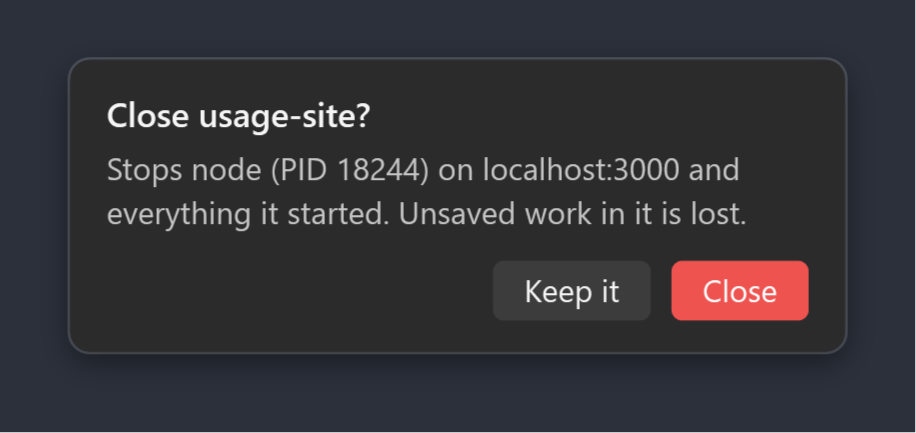
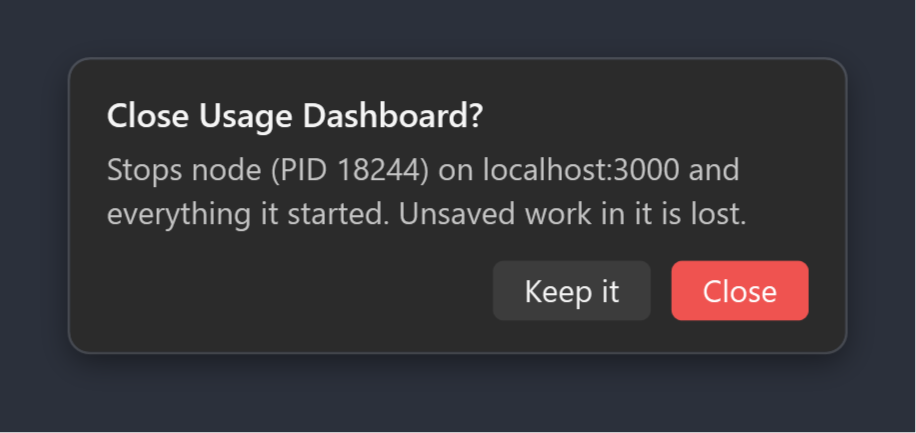
Name dev servers after their page title and show only the port
Each row now shows :port and the <title> of the page the server serves.
Servers with no page (an API, a debugger port) show the project name.
The titles line up in one column, and the hover card adds the project.

The end-to-end test now closes only servers it started, and uses ports
18796 to 18798, so it can't stop a dev server that holds its port.

Changed region(s): [[0.214, 0.2402, 0.5502, 0.3303]]

diff --git a/prototype/UsageWidget.Prototype/PrototypeWindow.cs b/prototype/UsageWidget.Prototype/PrototypeWindow.cs
@@ -361,7 +361,7 @@ class PrototypeWindow : Window
                 $"Last update: {(codexOk is { } c ? c.ToString("HH:mm:ss") : "never")}" +
                 (codexError != null ? $"\n⚠ {codexError}{(codexLast != null ? " (showing the Codex logs)" : "")}" : "")) +
             "\n\nClick: update · drag: move · Ctrl+wheel: size · ←/→: variant · right-click: menu" +
-            "\nDev servers: click localhost to open it · hover a row for its folder · Close stops it",
+            "\nDev servers: click the :port to open it · hover a row for its folder · Close stops it",
             "Coding Agent Usage Meter", MessageBoxButton.OK, MessageBoxImage.Information);
     }
 
@@ -377,7 +377,7 @@ class PrototypeWindow : Window
     void BuildServers()
     {
         var halo = narrow;
-        var key = $"{halo}|" + string.Join(",", servers.Select(s => $"{s.Pid}:{s.Port}:{s.Project}"));
+        var key = $"{halo}|" + string.Join(",", servers.Select(s => $"{s.Pid}:{s.Port}:{s.Shown}"));
         if (key == serversKey) return;
         serversKey = key;
 
@@ -386,7 +386,7 @@ class PrototypeWindow : Window
         serversPanel.Children.Add(new Border { Height = 1, Background = Theme.Divider, Margin = new Thickness(0, 5, 0, 3) });
         foreach (var server in servers)
         {
-            // A narrow look has no room for the full row: just :port and ×, the project is in the hover card.
+            // A narrow look has no room for the full row: just :port and ×, the page's title is in the hover card.
             var row = new DockPanel { Height = halo ? 16 : 17, Background = Brushes.Transparent };
             var close = halo
                 ? new Button { Style = (Style)FindResource("ServerX"), Margin = new Thickness(6, 0, 0, 0) }
@@ -397,10 +397,12 @@ class PrototypeWindow : Window
             row.Children.Add(close);
             var start = new StackPanel { Orientation = Orientation.Horizontal };
             start.Children.Add(new Ellipse { Width = 6, Height = 6, Fill = Theme.Running, Margin = new Thickness(0, 0, 6, 0), VerticalAlignment = VerticalAlignment.Center });
-            start.Children.Add(Link(server, halo ? $":{server.Port}" : server.Url));
+            var link = Link(server, $":{server.Port}");
+            if (!halo) link.MinWidth = 40; // room for :65535, so the titles line up
+            start.Children.Add(link);
             if (!halo)
             {
-                var project = Label(server.Project, 11, Text, HorizontalAlignment.Left, left: 8);
+                var project = Label(server.Shown, 11, Text, HorizontalAlignment.Left, left: 4);
                 project.TextTrimming = TextTrimming.CharacterEllipsis;
                 project.MaxWidth = 160;
                 start.Children.Add(project);
@@ -412,15 +414,16 @@ class PrototypeWindow : Window
         }
     }
 
-    /// The hover card on a server row: the project, its folder, and what runs it.
+    /// The hover card on a server row: the page's title, the project and its folder, and what runs it.
     ToolTip ServerCard(DevServer server)
     {
         var card = new StackPanel();
         var head = new StackPanel { Orientation = Orientation.Horizontal };
         head.Children.Add(new Ellipse { Width = 6, Height = 6, Fill = Theme.Running, Margin = new Thickness(0, 0, 6, 0), VerticalAlignment = VerticalAlignment.Center });
-        head.Children.Add(Label(server.Project, 12, Text, HorizontalAlignment.Left, bold: true));
+        head.Children.Add(Label(server.Shown, 12, Text, HorizontalAlignment.Left, bold: true));
         card.Children.Add(head);
-        card.Children.Add(Wrapped(server.Folder ?? "folder unknown", 12, Theme.Secondary, top: 2));
+        var folder = server.Folder ?? "folder unknown";
+        card.Children.Add(Wrapped(server.Title == null ? folder : $"{server.Project} · {folder}", 12, Theme.Secondary, top: 2));
         var runs = server.Wsl is { } w
             ? w.Containers.Length > 0 ? $"Docker in WSL ({w.Distro}) · {string.Join(", ", w.Containers)}" : $"{server.Name} in WSL ({w.Distro}) · PID {w.LinuxPid}"
             : $"{server.Name} · PID {server.Pid}";
@@ -437,8 +440,8 @@ class PrototypeWindow : Window
         return label;
     }
 
-    /// `localhost:port` (or `:port`), opening it in the browser. A Button, so the click doesn't start a window drag.
-    UIElement Link(DevServer server, string text)
+    /// `:port`, opening localhost:port in the browser. A Button, so the click doesn't start a window drag.
+    FrameworkElement Link(DevServer server, string text)
     {
         var link = new Button
         {
@@ -467,7 +470,7 @@ class PrototypeWindow : Window
         var body = server.Wsl is { Containers.Length: > 0 }
             ? $"{StopsWhat(server)}, which serve {server.Url}. They keep their data and start again with docker compose up."
             : $"{StopsWhat(server)} on {server.Url}. Unsaved work in it is lost.";
-        if (!Confirm.Ask(this, $"Close {server.Project}?", body, "Close"))
+        if (!Confirm.Ask(this, $"Close {server.Shown}?", body, "Close"))
             return;
         // Stopping containers takes a few seconds, so it runs off the UI thread.
         if (await Task.Run(() => DevServers.Close(server)) is { } err)

diff --git a/prototype/UsageWidget.Prototype/DevServers.cs b/prototype/UsageWidget.Prototype/DevServers.cs
@@ -2,6 +2,7 @@
 // and ports that WSL forwards to this PC (Docker containers or Linux programs running there).
 using System.Diagnostics;
 using System.IO;
+using System.Net.Http;
 using System.Runtime.InteropServices;
 using System.Text.RegularExpressions;
 
@@ -12,6 +13,10 @@ record DevServer(int Pid, string Name, int Port, bool LoopbackOnly)
     public string Url => $"localhost:{Port}";
     /// The project folder's name, or the program's name when no project folder is found.
     public string Project { get; init; } = Name;
+    /// The <title> of the page the server serves at /, once it has been read.
+    public string? Title { get; init; }
+    /// What the row shows: the page's title, or the project when the page has none.
+    public string Shown => Title ?? Project;
     public string? Folder { get; init; }
     public string? CommandLine { get; init; }
     /// Set when WSL forwards the port: what runs it there. Pid is then wslrelay's, which serves every WSL port.
@@ -51,10 +56,12 @@ static class DevServers
         // WSL ports are looked up in WSL in the background, so until that is done they show as just "WSL".
         var relayed = found.Values.Where(s => s.Name.Equals(Wsl.Relay, StringComparison.OrdinalIgnoreCase)).ToList();
         Wsl.Refresh(relayed.Select(s => s.Port));
+        PageTitles.Keep(found.Keys);
         return found.Values
             .Select(s => relayed.Contains(s) ? Wsl.Describe(s)
                 : projects.TryGetValue((s.Pid, s.Port), out var p) ? p with { LoopbackOnly = s.LoopbackOnly }
                 : projects[(s.Pid, s.Port)] = WithProject(s))
+            .Select(s => s with { Title = PageTitles.Get(s.Pid, s.Port) })
             .OrderBy(s => s.Port).ToList();
     }
 
@@ -184,6 +191,72 @@ static class DevServers
         }
         finally { Marshal.FreeHGlobal(buf); }
         return rows;
+    }
+}
+
+/// The <title> of the page each server serves at http://localhost:port/, read in the background once per server.
+/// A server that doesn't answer yet (still starting) is asked again a little later. Until then, and for servers
+/// that serve no HTML page (an API, a debugger port), the row shows the project.
+static class PageTitles
+{
+    static readonly HttpClient http = new(new SocketsHttpHandler
+    {
+        MaxAutomaticRedirections = 3,
+        // Only ever localhost, where dev servers use their own self-signed certificates.
+        SslOptions = { RemoteCertificateValidationCallback = (_, _, _, _) => true },
+    }) { Timeout = TimeSpan.FromSeconds(3) };
+
+    static readonly Dictionary<(int Pid, int Port), string?> known = [];
+    static readonly Dictionary<(int Pid, int Port), DateTime> asked = [];
+    static readonly object gate = new();
+    const int MaxBytes = 256 * 1024;
+
+    /// The title once read, or null; starts a read when none is known and none was tried in the last 10 seconds.
+    public static string? Get(int pid, int port)
+    {
+        lock (gate)
+        {
+            if (known.TryGetValue((pid, port), out var title)) return title;
+            if (asked.TryGetValue((pid, port), out var at) && DateTime.Now - at < TimeSpan.FromSeconds(10)) return null;
+            asked[(pid, port)] = DateTime.Now;
+        }
+        _ = Task.Run(async () =>
+        {
+            var title = await Read(port);
+            if (title is { } t) lock (gate) known[(pid, port)] = t.Length > 0 ? t : null;
+        });
+        return null;
+    }
+
+    /// Forgets servers that stopped, so a new server on the same port is read again.
+    public static void Keep(IEnumerable<(int Pid, int Port)> running)
+    {
+        var keep = running.ToHashSet();
+        lock (gate)
+        {
+            foreach (var gone in known.Keys.Where(k => !keep.Contains(k)).ToList()) known.Remove(gone);
+            foreach (var gone in asked.Keys.Where(k => !keep.Contains(k)).ToList()) asked.Remove(gone);
+        }
+    }
+
+    /// The page's title, "" when it answered without one, or null when it didn't answer.
+    static async Task<string?> Read(int port)
+    {
+        try
+        {
+            using var request = new HttpRequestMessage(HttpMethod.Get, $"http://localhost:{port}/");
+            request.Headers.Accept.ParseAdd("text/html"); // Vite and others only serve index.html to a browser
+            using var response = await http.SendAsync(request, HttpCompletionOption.ResponseHeadersRead);
+            if (!response.IsSuccessStatusCode || response.Content.Headers.ContentType?.MediaType != "text/html") return "";
+            await using var stream = await response.Content.ReadAsStreamAsync();
+            var buffer = new byte[MaxBytes];
+            int read = 0, n;
+            while (read < MaxBytes && (n = await stream.ReadAsync(buffer.AsMemory(read))) > 0) read += n;
+            var html = System.Text.Encoding.UTF8.GetString(buffer, 0, read);
+            var m = Regex.Match(html, @"<title[^>]*>(.*?)</title>", RegexOptions.IgnoreCase | RegexOptions.Singleline);
+            return m.Success ? Regex.Replace(System.Net.WebUtility.HtmlDecode(m.Groups[1].Value), @"\s+", " ").Trim() : "";
+        }
+        catch { return null; } // not up yet, no HTTP on this port, or too slow
     }
 }
 

diff --git a/prototype/UsageWidget.Prototype/E2e.cs b/prototype/UsageWidget.Prototype/E2e.cs
@@ -9,8 +9,9 @@ namespace UsageWidget.Prototype;
 
 static class E2e
 {
-    const int LinuxPort = 8797, DockerPort = 8798, WindowsPort = 8796;
-    const string Container = "usage-meter-e2e", LinuxFolder = "/tmp/usage-meter-e2e";
+    // Far from the ports dev tools pick (wrangler's 8787 and up, Vite's 5173...), so they rarely hold yours.
+    const int LinuxPort = 18797, DockerPort = 18798, WindowsPort = 18796;
+    const string Container = "usage-meter-e2e", LinuxFolder = "/tmp/usage-meter-e2e", Listing = "Directory listing for /";
 
     static int failures;
 
@@ -21,7 +22,7 @@ static class E2e
         void Check(bool ok, string what) { if (!ok) failures++; Say($"{(ok ? "PASS" : "FAIL")}  {what}"); }
 
         Say("Servers found now:");
-        foreach (var s in Settled()) Say($"  {s.Url,-16} {s.Project,-20} {s.Name,-10} {s.Folder}");
+        foreach (var s in Settled()) Say($"  {s.Url,-16} {s.Shown,-30} {s.Project,-20} {s.Name,-10} {s.Folder}");
 
         foreach (var pair in (expect ?? "").Split(',', StringSplitOptions.RemoveEmptyEntries))
         {
@@ -42,6 +43,9 @@ static class E2e
         Check(linux?.Project == "usage-meter-e2e" && linux.Name == "python3" && linux.Wsl?.LinuxPid != null,
             $"WSL python server on :{LinuxPort} found as usage-meter-e2e / python3 (got {linux?.Project} / {linux?.Name})");
         Check(linux?.Folder == $@"\\wsl.localhost\{linux?.Wsl?.Distro}\tmp\usage-meter-e2e", $"its folder is the WSL path (got {linux?.Folder})");
+        // python's http.server serves a folder listing, whose <title> names the row.
+        linux = WaitFor(LinuxPort, s => s.Title != null);
+        Check(linux?.Shown == Listing, $"it is shown as its page's title, {Listing} (got {linux?.Shown})");
         var docker = WaitFor(DockerPort, s => s.Wsl != null);
         Check(docker?.Project == Container && docker.Name == "docker" && docker.Wsl?.Containers.SequenceEqual([Container]) == true,
             $"WSL container on :{DockerPort} found as {Container} / docker (got {docker?.Project} / {docker?.Name})");
@@ -50,12 +54,21 @@ static class E2e
         {
             win = WaitFor(WindowsPort, _ => true);
             Check(win?.Name == "python" && win.Pid == windows.Id, $"Windows python server on :{WindowsPort} found (got {win?.Name} PID {win?.Pid})");
+            win = WaitFor(WindowsPort, s => s.Title != null);
+            Check(win?.Shown == Listing, $"it is shown as its page's title, {Listing} (got {win?.Shown})");
         }
 
-        // Close each through the widget, as its Close button does, and check it is gone.
-        foreach (var (s, what) in new[] { (linux, "WSL python server"), (docker, "WSL container"), (win, "Windows python server") })
+        // Close each through the widget, as its Close button does, and check it is gone. Only a server this test
+        // started: when one didn't show up, its port may hold one of yours, and that one is left running.
+        foreach (var (s, ours, what) in new[]
+        {
+            (linux, linux?.Wsl?.LinuxPid != null && linux.Name == "python3", "WSL python server"),
+            (docker, docker?.Wsl?.Containers.SequenceEqual([Container]) == true, "WSL container"),
+            (win, win != null && win.Pid == windows?.Id, "Windows python server"),
+        })
         {
             if (s == null) continue;
+            if (!ours) { Say($"SKIP  Close {what}: :{s.Port} is {s.Name} ({s.Project}), not the test's, so it is left running"); continue; }
             var error = DevServers.Close(s);
             Check(error == null, $"Close {what} :{s.Port} reports no error{(error != null ? $" (got: {error})" : "")}");
             Check(WaitFor(s.Port, _ => true, gone: true) == null, $"{what} :{s.Port} is gone after Close");

diff --git a/prototype/UsageWidget.Prototype/Qa.cs b/prototype/UsageWidget.Prototype/Qa.cs
@@ -61,11 +61,11 @@ static class Qa
         // Dev servers under the looks: full rows, and the short ones under a narrow look.
         var servers = new List<DevServer>
         {
-            new(18244, "node", 3000, true) { Project = "usage-site", Folder = @"C:\Users\you\Projects\usage-site", CommandLine = "node node_modules/next/dist/bin/next dev" },
+            new(18244, "node", 3000, true) { Project = "usage-site", Title = "Usage Dashboard", Folder = @"C:\Users\you\Projects\usage-site", CommandLine = "node node_modules/next/dist/bin/next dev" },
             new(20112, "node", 5173, true) { Project = "design-tool", Folder = @"C:\Users\you\Projects\design-tool" },
             new(35808, "docker", 8069, true)
             {
-                Project = "accounting", Folder = @"\\wsl.localhost\Ubuntu\home\you\accounting", CommandLine = "accounting-odoo-1 · odoo:17",
+                Project = "accounting", Title = "Odoo", Folder = @"\\wsl.localhost\Ubuntu\home\you\accounting", CommandLine = "accounting-odoo-1 · odoo:17",
                 Wsl = new WslTarget("Ubuntu", ["accounting-db-1", "accounting-odoo-1"], null),
             },
         };
@@ -82,7 +82,7 @@ static class Qa
         }
         SavePopup(widget.QaServerTip(servers[0]), Path.Combine(folder, "tip-server.png"));
         SavePopup(widget.QaServerTip(servers[2]), Path.Combine(folder, "tip-server-wsl.png"));
-        var confirm = Confirm.Make(null, "Close usage-site?",
+        var confirm = Confirm.Make(null, "Close Usage Dashboard?",
             "Stops node (PID 18244) on localhost:3000 and everything it started. Unsaved work in it is lost.", "Close");
         var card = (FrameworkElement)confirm.Content;
         confirm.Content = null;

diff --git a/README.md b/README.md
@@ -162,7 +162,7 @@ In **Settings → Tray icon** you can pick **Rings** instead: Claude is the oute
 
 ## Dev servers
 
-Under the look, the widget lists the local dev servers you have running, with their project name.
+Under the look, the widget lists the local dev servers you have running. Each row shows the port and the title of the page it serves. A server with no page (an API, a debugger port) shows its project name instead.
 
 <p>
   <img src="docs/images/servers.png" width="315" alt="Three dev servers under the Bars look">
@@ -170,13 +170,13 @@ Under the look, the widget lists the local dev servers you have running, with th
   <img src="docs/images/tip-server-wsl.png" width="420" alt="The hover card of a Docker project in WSL">
 </p>
 
-- **Click `localhost:3000`** to open it in your browser.
-- **Hover a row** to see the project folder and what runs it.
+- **Click `:3000`** to open `localhost:3000` in your browser.
+- **Hover a row** to see the project, its folder and what runs it.
 - **Close** stops it. It always asks first.
 
 It finds:
 
-- **Programs on Windows**: node, deno, bun, python, dotnet, java, ruby, php, go, vite, hugo and a few more. The row is named after the git repo the server runs in, so a server started in `my-repo\app` shows as `my-repo`. A git worktree shows as its main repo. Without a repo, the name is the nearest folder with a `package.json`, `.csproj`, `pyproject.toml` and so on. Close stops the program and everything it started.
+- **Programs on Windows**: node, deno, bun, python, dotnet, java, ruby, php, go, vite, hugo and a few more. The project is named after the git repo the server runs in, so a server started in `my-repo\app` shows as `my-repo`. A git worktree shows as its main repo. Without a repo, the name is the nearest folder with a `package.json`, `.csproj`, `pyproject.toml` and so on. Close stops the program and everything it started.
 - **Docker containers in WSL**: shown under their Compose project (`accounting`, `erpnext`…), with the folder in WSL. Close runs `docker stop` on that project's containers. They keep their data and start again with `docker compose up`.
 - **Programs running in WSL** (a node or python server started there), named after their git repo too. Close stops that program.
 
